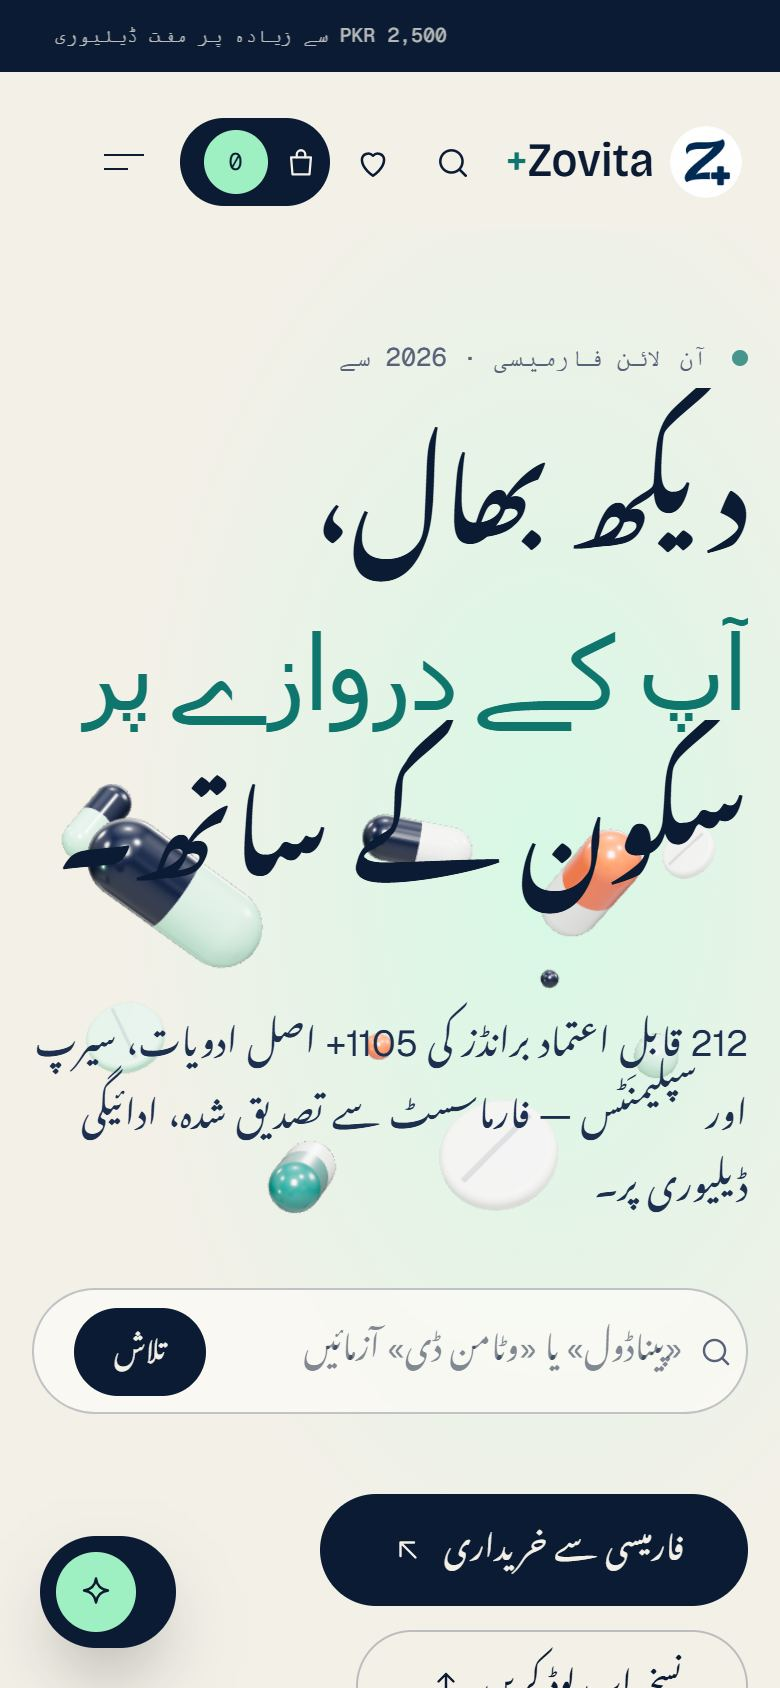
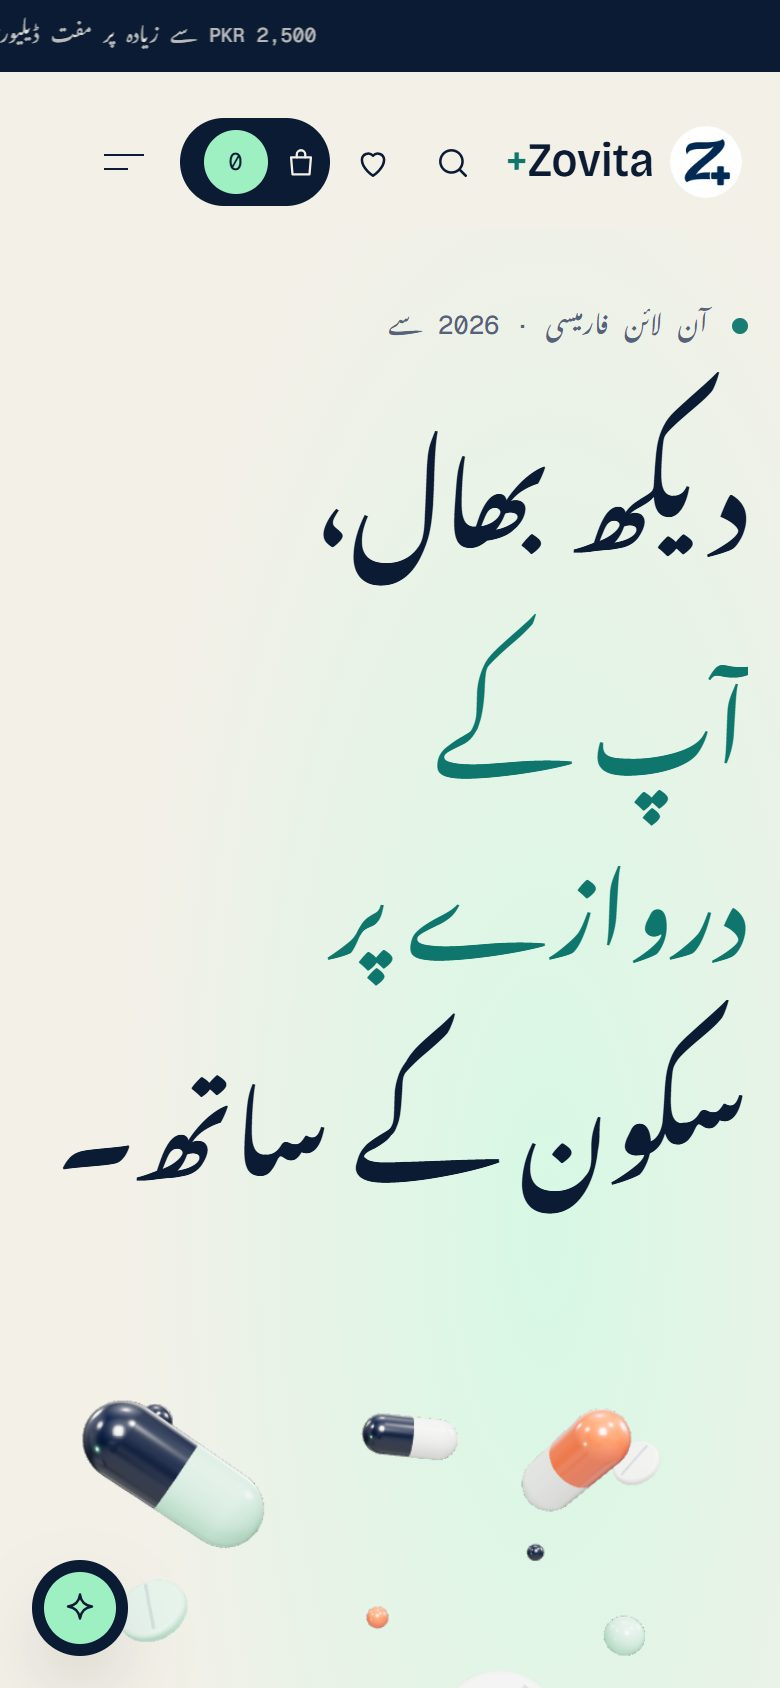
docs: step-by-step setup guide, troubleshooting, current facts and screenshots
Getting started is now numbered (requirements, install, database, build/run, sign in, optional services) with a troubleshooting table; runs with no third-party keys. Fixed stale claims (staff e-mail codes, 621-entry dictionary, test keys in .env.example), removed links to the undeployed demo domain, and retook the two mobile screenshots after the hero and Urdu fixes.

diff --git a/README.md b/README.md
@@ -19,7 +19,7 @@ An online pharmacy with 1,000+ real medicines, syrups and supplements, a 3D symp
 
 <img src=".github/assets/home.jpg" alt="Zovita+ home page with a 3D pill hero" width="100%">
 
-**Live:** [zovita.ahmershah.dev](https://zovita.ahmershah.dev)
+**Run it locally in about five minutes:** [Getting started](#getting-started) · no API keys needed
 
 </div>
 
@@ -103,7 +103,7 @@ An online pharmacy with 1,000+ real medicines, syrups and supplements, a 3D symp
   | E-mail | When |
   |---|---|
   | Welcome + **confirm your e-mail** | Sign-up, and after changing the e-mail address (signed link, **expires in 10 minutes**, resend button on the account page) |
-  | **Sign-in code** | E-mail-code sign-in and staff second step (6 digits from a CSPRNG, stored only as an HMAC under a unique index, 10 minutes, single use, 5 tries, one per minute) |
+  | **Sign-in code** | Passwordless "e-mail me a code" sign-in and customer two-step sign-in (6 digits from a CSPRNG, stored only as an HMAC under a unique index, 10 minutes, single use, 5 tries, one per minute) |
   | **Password reset** | "Forgot password?" (64 random characters, stored hashed, single use, **expires in 10 minutes**) |
   | **New sign-in alert** | A sign-in from an IP not seen on the account in 90 days |
   | Order confirmed / **status updates** / **refund issued** | Checkout (COD) or payment webhook (card), every status change, every refund |
@@ -151,7 +151,9 @@ An online pharmacy with 1,000+ real medicines, syrups and supplements, a 3D symp
 
 ### Languages
 - **English and اردو (Urdu)**: a full right-to-left layout and Noto Nastaliq Urdu.
-- A 621-entry dictionary, switched instantly with no reload. `hreflang` alternates are in the sitemap and `<head>`.
+- A 1,460-entry dictionary covering the storefront, policies, FAQ, checkout, the admin panel and error pages, switched instantly with no reload; live values (counts, prices, names) go through placeholders, and dates use Urdu month names.
+- Every font stack falls back to Nastaliq, headlines get Nastaliq-sized line height, and catalogue data (product names, manufacturer descriptions) stays as published.
+- `hreflang` alternates are in the sitemap and `<head>`.
 
 ### Speed
 - **Server-side rendering** (Inertia SSR, `npm run build:ssr` + `php artisan inertia:start-ssr`): every storefront page arrives as full HTML and hydrates without a mismatch. The head (title, meta, JSON-LD) stays server-rendered by Blade, so there are no duplicate tags.
@@ -339,7 +341,7 @@ Also: `experiment_events` and `experiment_assignments` (A/B), `webhook_events` (
 | **Enumeration** | Password reset, login and order tracking return identical responses whether or not the account or order exists. |
 | **Uploads** | MIME and extension allow-list, size cap, UUID file names, private disk, streamed to admins only. |
 | **Abuse by banned users** | Temporary, permanent and deep bans matched on canonical email, phone, device cookie, browser fingerprint, IP and network. |
-| **Admin exposure** | 404 for non-staff, separate login, **mandatory second step** (e-mailed 10-minute single-use code, or replay-proof TOTP with hashed single-use recovery codes; five wrong codes restart the sign-in), **role permissions** on every route, idle timeout, every admin action written to the activity log. |
+| **Admin exposure** | 404 for non-staff, separate login, **optional authenticator-app second step** each staff member turns on from My security (replay-proof TOTP, hashed single-use recovery codes; five wrong codes restart the sign-in), **role permissions** on every route, idle timeout, every admin action written to the activity log. |
 | **Payments** | Amounts computed on the server; webhooks verified with HMAC-SHA256 (`t=…,v1=…`, constant-time compare, 5-minute replay window); every event id stored once; amount and currency must match; order and payment rows locked for every state change; idempotency keys on gateway calls; refunds capped at what was captured. |
 | **Malicious uploads** | Prescriptions and avatars are streamed to **ClamAV** (`clamd` INSTREAM over TCP or a Unix socket) before they are stored; an unreachable scanner refuses the upload unless explicitly configured to fail open. |
 | **Multi-server abuse controls** | Rate-limit counters (`CACHE_LIMITER_STORE`) and ban look-ups (`BAN_CACHE_STORE`) live in a shared store (**Redis** in production); issuing or lifting a ban bumps a version key so every server stops trusting cached answers at once, and cached hits are re-checked so an expired ban is never enforced. |
@@ -355,9 +357,9 @@ Report vulnerabilities privately: see [SECURITY.md](SECURITY.md).
   - Site-wide: `Pharmacy`/`OnlineStore` and `WebSite` with `SearchAction`.
   - Per page: `Product` (offers, availability, brand), `BreadcrumbList`, `FAQPage`, `ItemList` and `ContactPage`.
 - **One `<h1>` per page** with a logical heading outline.
-- **[`/sitemap.xml`](https://zovita.ahmershah.dev/sitemap.xml)** lists every product, department, category, brand and page, with `lastmod` and language alternates.
-- **[`/robots.txt`](https://zovita.ahmershah.dev/robots.txt)** allows search engines and named AI crawlers (GPTBot, ClaudeBot, PerplexityBot, Google-Extended…) and keeps them out of the bag, checkout, account and admin areas.
-- **[`/llms.txt`](https://zovita.ahmershah.dev/llms.txt)** is a concise guide to the site for AI agents. **[`/llms-full.txt`](https://zovita.ahmershah.dev/llms-full.txt)** adds the full FAQ, policies, departments and how ordering works.
+- **`/sitemap.xml`** lists every product, department, category, brand and page, with `lastmod` and language alternates.
+- **`/robots.txt`** allows search engines and named AI crawlers (GPTBot, ClaudeBot, PerplexityBot, Google-Extended…) and keeps them out of the bag, checkout, account and admin areas.
+- **`/llms.txt`** is a concise guide to the site for AI agents. **`/llms-full.txt`** adds the full FAQ, policies, departments and how ordering works.
 - Private pages (bag, checkout, account, auth) are `noindex`.
 
 ## Testing & results
@@ -382,21 +384,58 @@ node tests/load/run.mjs abuse http://localhost/zovita
 
 ## Getting started
 
-**Requirements:** PHP 8.2+ (`pdo_mysql`, `mbstring`, `gd`, `fileinfo`), Composer, Node 20+ and MySQL/MariaDB. XAMPP works.
+### 1. Requirements
+
+| Tool | Version | Notes |
+| --- | --- | --- |
+| PHP | 8.2+ | extensions `pdo_mysql`, `mbstring`, `gd` (with WebP), `fileinfo` |
+| Composer | 2.x | |
+| Node.js | 20+ (22 used in CI) | npm comes with it |
+| MySQL / MariaDB | 8.0+ / 10.6+ | XAMPP's MariaDB works |
+
+### 2. Install
 
 ```bash
-git clone https://github.com/ahmershahdev/zovita.git && cd zovita
-composer install && npm install
-cp .env.example .env && php artisan key:generate
-
-# create an empty database called "zovita", then:
-php artisan migrate --seed          # catalogue, demo customer, admin account
-php artisan storage:link
-php artisan catalog:cache-images    # download product images as responsive WebP
-
-npm run build                       # or `npm run dev` for hot reload
-php artisan serve                   # → http://127.0.0.1:8000
+git clone https://github.com/ahmershahdev/zovita.git
+cd zovita
+composer install
+npm install
+cp .env.example .env          # Windows PowerShell: copy .env.example .env
+php artisan key:generate
 ```
+
+### 3. Database
+
+Create an empty database called `zovita` (utf8mb4), e.g. in phpMyAdmin or:
+
+```bash
+mysql -u root -e "CREATE DATABASE zovita CHARACTER SET utf8mb4 COLLATE utf8mb4_unicode_ci"
+```
+
+Set `DB_USERNAME` / `DB_PASSWORD` in `.env` if yours aren't `root` with no password, then:
+
+```bash
+php artisan migrate --seed       # 1,186 products, demo customer, three staff accounts
+php artisan storage:link         # public/storage → storage/app/public (product images, avatars)
+php artisan catalog:cache-images # downloads product photos as WebP (a few minutes; products without one stay hidden)
+```
+
+### 4. Build and run
+
+Choose one:
+
+**A. Built-in server**
+
+```bash
+npm run build
+php artisan serve                # http://127.0.0.1:8000  (APP_URL=http://127.0.0.1:8000)
+```
+
+Use `npm run dev` instead of `npm run build` for hot reload while you work on the frontend.
+
+**B. XAMPP / Apache**: clone into `htdocs/zovita`, set `APP_URL=http://localhost/zovita`, run `npm run build`, and open http://localhost/zovita. The root `.htaccess` routes requests into `public/`. Don't run `php artisan route:cache` under a subfolder install (the prefix breaks compiled routes); it's fine when the document root is `public/`, as in production.
+
+### 5. Sign in
 
 | Account | Sign in at | Email | Password |
 |---|---|---|---|
@@ -405,20 +444,40 @@ php artisan serve                   # → http://127.0.0.1:8000
 | Support | `/admin/login` | `support@zovita.com` | `Support@1234` |
 | Demo customer | `/login` | `demo@zovita.pk` | `password` |
 
-Staff sign in with just their e-mail and password, so the seeded demo accounts work out of the box. After signing in, open **My security** in the panel to turn on two-step sign-in with an authenticator app; from then on that account also needs the app's code.
+Staff sign in with just their e-mail and password, so the seeded accounts work out of the box. After signing in, open **My security** in the panel to turn on two-step sign-in with an authenticator app; from then on that account also needs the app's code.
 
 > **Change the staff passwords before going live.** Use `php artisan user:admin you@example.com --role=owner` to promote your own account, then `php artisan user:admin admin@zovita.com --revoke` (or delete it).
 
-**XAMPP:** clone into `htdocs/zovita` and set `APP_URL=http://localhost/zovita`. The root `.htaccess` routes requests into `public/`. Don't run `php artisan route:cache` under a subfolder install: the subfolder prefix breaks the compiled routes. It works normally when the document root is `public/`, as in production.
+### 6. Optional services
+
+Everything works locally without third-party keys: e-mails go to `storage/logs/laravel.log`, reCAPTCHA is off while its keys are blank, card payments use the built-in sandbox gateway, and uploads skip virus scanning.
+
+| To enable | Set in `.env` |
+| --- | --- |
+| Real e-mail | `MAIL_MAILER=resend`, `RESEND_API_KEY`, and a `MAIL_FROM_ADDRESS` on a domain verified at resend.com/domains |
+| reCAPTCHA | v3 and v2 site + secret keys; add `localhost` (and your domain) to each key's allowed domains in the reCAPTCHA admin console |
+| Stripe | `PAYMENTS_DRIVER=stripe`, `STRIPE_SECRET`, `STRIPE_WEBHOOK_SECRET` (see [Environment](#environment)) |
+| Background work | `php artisan schedule:work` (prescription auto-accept, payment expiry, refill reminders); with `QUEUE_CONNECTION=database`, also `php artisan queue:work` |
+
+### Troubleshooting
+
+| Symptom | Fix |
+| --- | --- |
+| Blank page or a Vite manifest error | Run `npm run build` (or keep `npm run dev` running). |
+| Shop shows no products | Run `php artisan catalog:cache-images`, then `php artisan cache:clear`; products without a photo are hidden. |
+| E-mails never arrive | `storage/logs/laravel.log` shows the Resend error; usually the from-domain isn't verified. |
+| reCAPTCHA missing, or "Invalid domain for site key" | Add the host you're browsing on to the key's domain list, or leave the keys blank locally. |
+| Images 404 under XAMPP | Re-run `php artisan storage:link` and check `APP_URL` matches the address bar. |
+| Changed `.env` but nothing happens | `php artisan config:clear` |
 
 ### Environment
 
 | Key | Purpose |
 | --- | --- |
-| `APP_URL`, `ZOVITA_SITE_URL` | Local URL and the public canonical URL used in sitemaps, canonicals and llms files (`https://zovita.ahmershah.dev`). |
-| `MAIL_MAILER=resend`, `RESEND_API_KEY`, `MAIL_FROM_ADDRESS` | Email through Resend (`log` writes to `storage/logs`). |
+| `APP_URL`, `ZOVITA_SITE_URL` | Local URL, and the public canonical URL used in sitemaps, canonicals and the llms files (set it to your own domain when you deploy). |
+| `MAIL_MAILER=resend`, `RESEND_API_KEY`, `MAIL_FROM_ADDRESS` | Email through Resend (`log` writes to `storage/logs`). The from-address must be on a domain verified in Resend, or every e-mail is rejected. |
 | `RECAPTCHA_V3_SITE_KEY` / `_SECRET_KEY`, `RECAPTCHA_V3_MIN_SCORE` | Invisible reCAPTCHA. |
-| `RECAPTCHA_V2_SITE_KEY` / `_SECRET_KEY` | Checkbox reCAPTCHA (`.env.example` ships Google's always-pass test keys). |
+| `RECAPTCHA_V2_SITE_KEY` / `_SECRET_KEY` | Checkbox reCAPTCHA. Leave either version's keys blank and that version is simply switched off. |
 | `RECAPTCHA_ENABLED` | `false` disables both (used by the e2e server). |
 | `RATE_LIMIT_ALLOWLIST` | Comma-separated IPs that skip the site-wide budget (health checks, load tests). |
 | `ZOVITA_SUPPORT_PHONE`, `ZOVITA_SUPPORT_EMAIL`, `ZOVITA_ADMIN_EMAIL` | Contact details and where team notifications go. |
